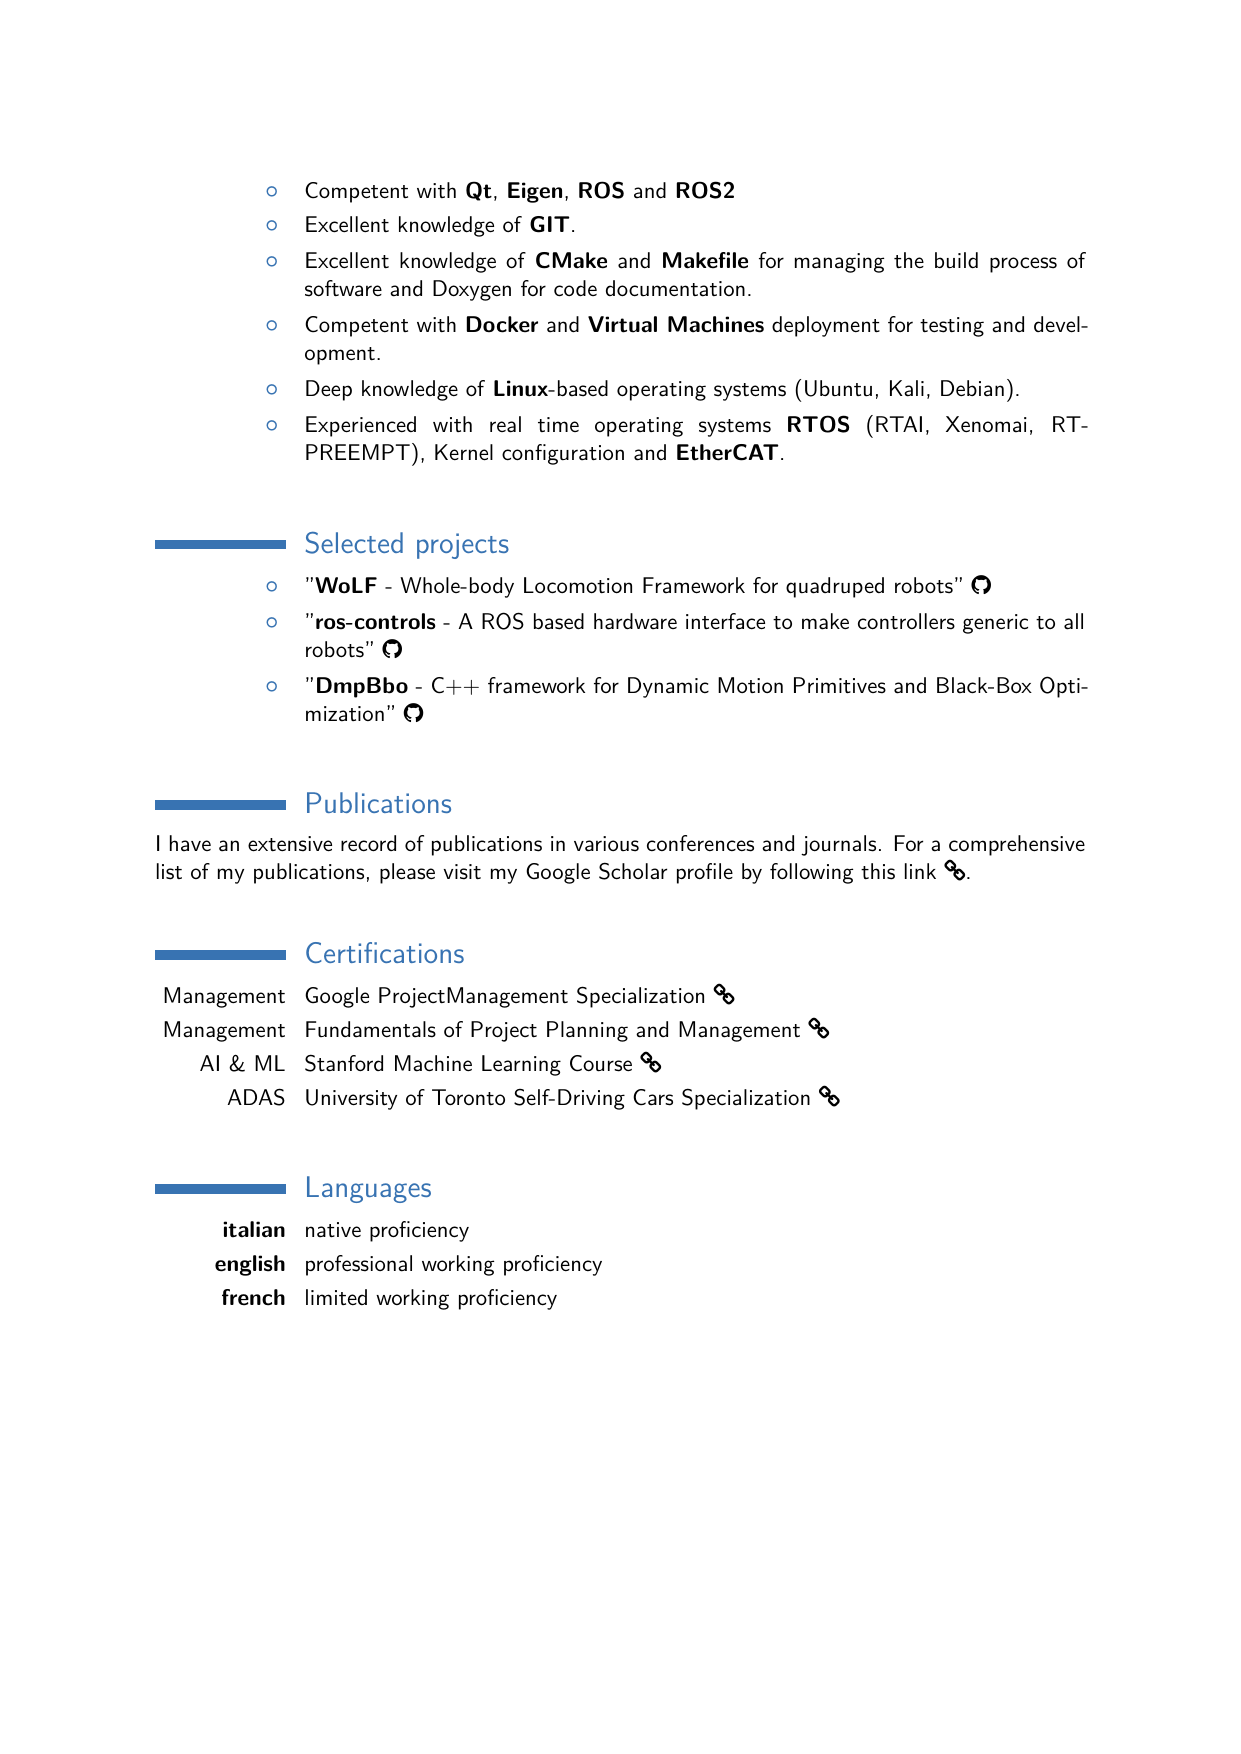
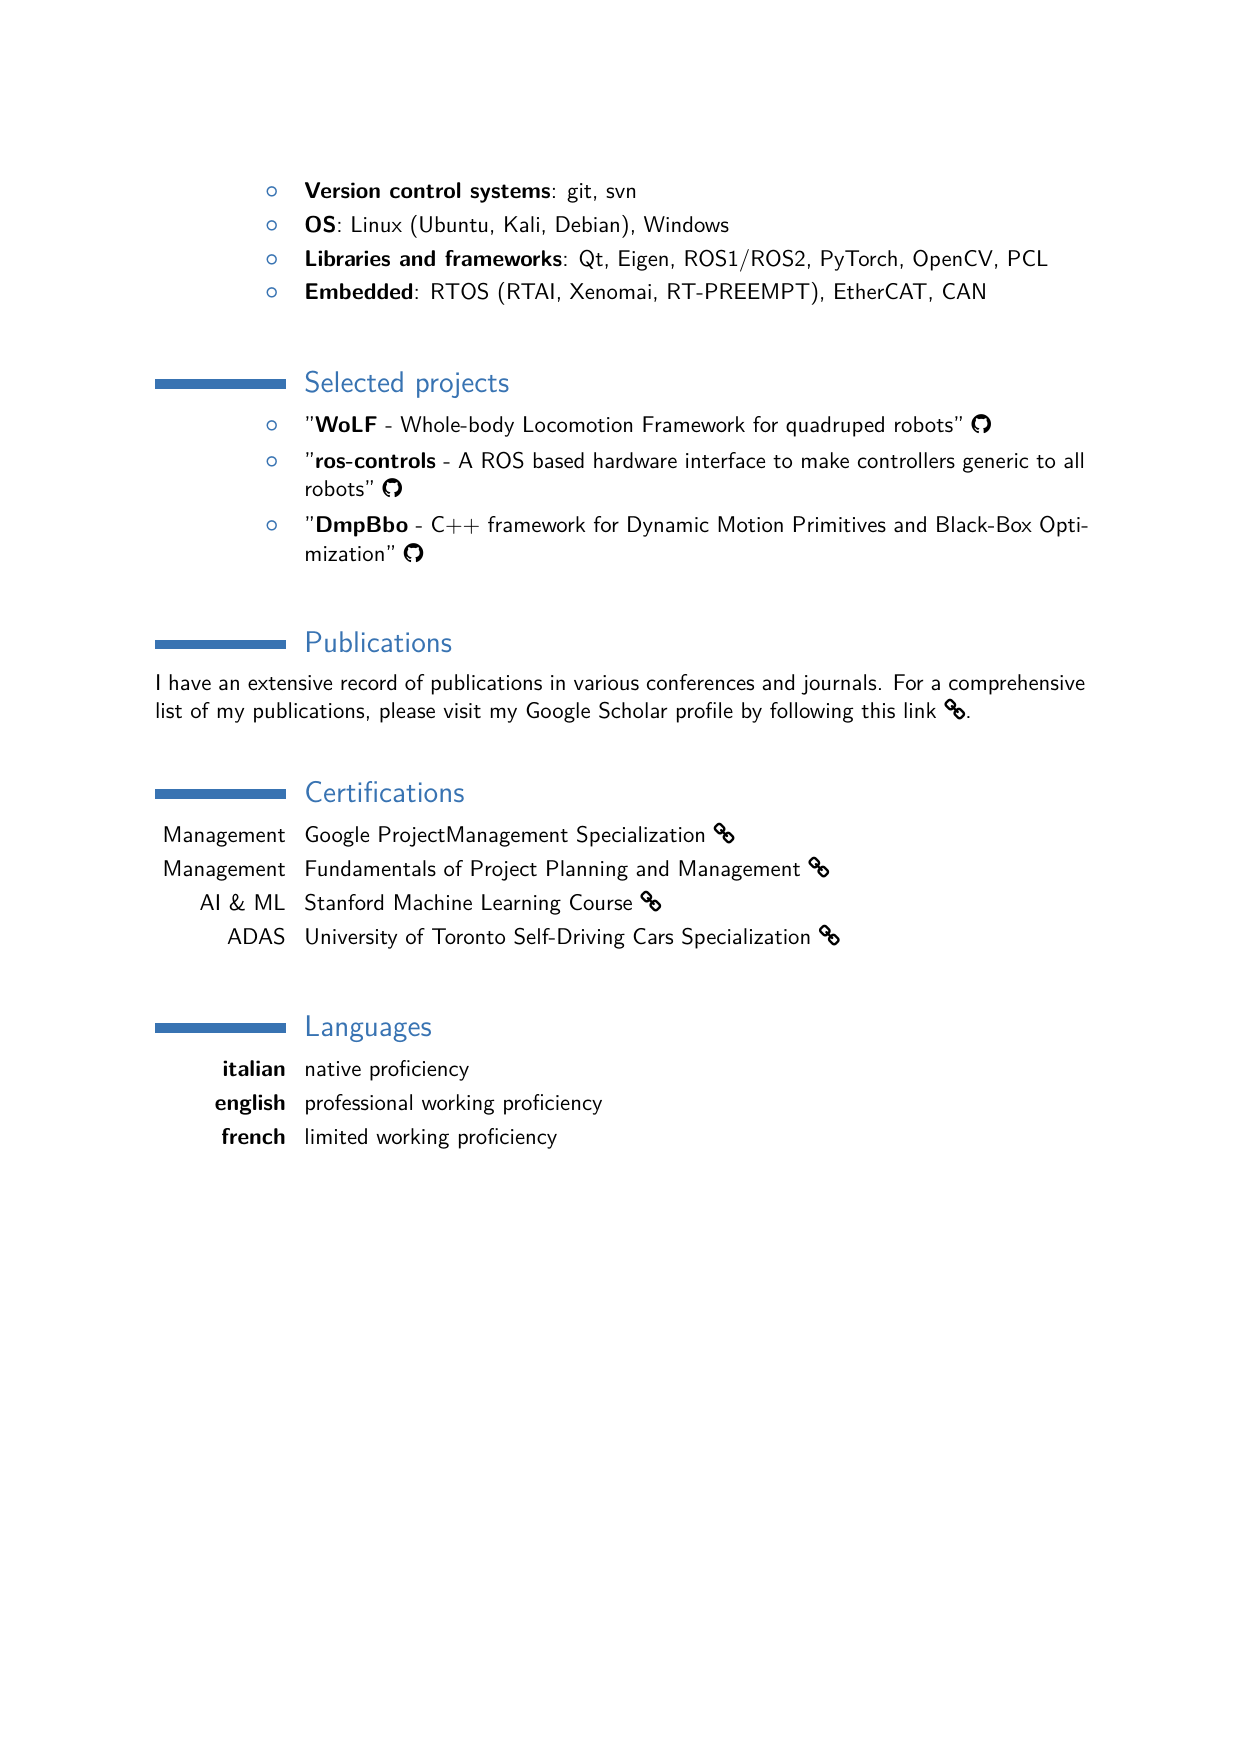
Generated files updated on dom 29 ott 2023, 19:51:11, CET

Changed region(s): [[0.1225, 0.0924, 0.8574, 0.7697], [0.5512, 0.5849, 0.6737, 0.6465], [0.7655, 0.4618, 0.8574, 0.4926]]

diff --git a/CV_Gennaro-Raiola.tex b/CV_Gennaro-Raiola.tex
@@ -192,14 +192,22 @@ This library has been successfully used with the SoftBank robot Pepper to learn 
 %----------------------------------------------------------------------------------------
 \section{Technical skills}
 
-\cvitem{\listitemsymbol}{Proficient in the following programming languages: \textbf{C}/\textbf{C++}, \textbf{Python} and \textbf{Matlab}}
-\cvitem{\listitemsymbol}{Competent with \textbf{Bash} scripting.}
-\cvitem{\listitemsymbol}{Competent with \textbf{Qt}, \textbf{Eigen}, \textbf{ROS} and \textbf{ROS2}}
-\cvitem{\listitemsymbol}{Excellent knowledge of \textbf{GIT}.}
-\cvitem{\listitemsymbol}{Excellent knowledge of \textbf{CMake} and \textbf{Makefile} for managing the build process of software and Doxygen for code documentation.}
-\cvitem{\listitemsymbol}{Competent with \textbf{Docker} and \textbf{Virtual Machines} deployment for testing and development.}
-\cvitem{\listitemsymbol}{Deep knowledge of \textbf{Linux}-based operating systems (Ubuntu, Kali, Debian).}
-\cvitem{\listitemsymbol}{Experienced with real time operating systems \textbf{RTOS} (RTAI, Xenomai, RT-PREEMPT), Kernel configuration and \textbf{EtherCAT}.}
+%\cvitem{\listitemsymbol}{Proficient in the following programming languages: \textbf{C}/\textbf{C++}, \textbf{Python} and \textbf{Matlab}}
+%\cvitem{\listitemsymbol}{Competent with \textbf{Bash} scripting.}
+%\cvitem{\listitemsymbol}{Competent with \textbf{Qt}, \textbf{Eigen}, \textbf{ROS} and \textbf{ROS2}}
+%\cvitem{\listitemsymbol}{Excellent knowledge of \textbf{GIT}.}
+%\cvitem{\listitemsymbol}{Proficient in \textbf{CMake} and \textbf{Makefile} for managing the build process of software and Doxygen for code documentation.}
+%\cvitem{\listitemsymbol}{Competent with \textbf{Docker} and \textbf{Virtual Machines} deployment for testing and development.}
+%\cvitem{\listitemsymbol}{Deep knowledge of \textbf{Linux}-based operating systems (Ubuntu, Kali, Debian).}
+%\cvitem{\listitemsymbol}{Experienced with real time operating systems \textbf{RTOS} (RTAI, Xenomai, RT-PREEMPT), Kernel configuration and \textbf{EtherCAT}.}
+
+\cvitem{\listitemsymbol}{\textbf{Programming languages}: C/C++, Python and Matlab}
+\cvitem{\listitemsymbol}{\textbf{DevOps}: Bash, Gitlab CI/CD, Docker, Jenkins, Google Test, Make and CMake}
+\cvitem{\listitemsymbol}{\textbf{Version control systems}: git, svn}
+\cvitem{\listitemsymbol}{\textbf{OS}: Linux (Ubuntu, Kali, Debian), Windows}
+\cvitem{\listitemsymbol}{\textbf{Libraries and frameworks}: Qt, Eigen, ROS1/ROS2, PyTorch, OpenCV, PCL}
+\cvitem{\listitemsymbol}{\textbf{Embedded}: RTOS (RTAI, Xenomai, RT-PREEMPT), EtherCAT, CAN}
+
 \sectionspace
 
 %----------------------------------------------------------------------------------------
